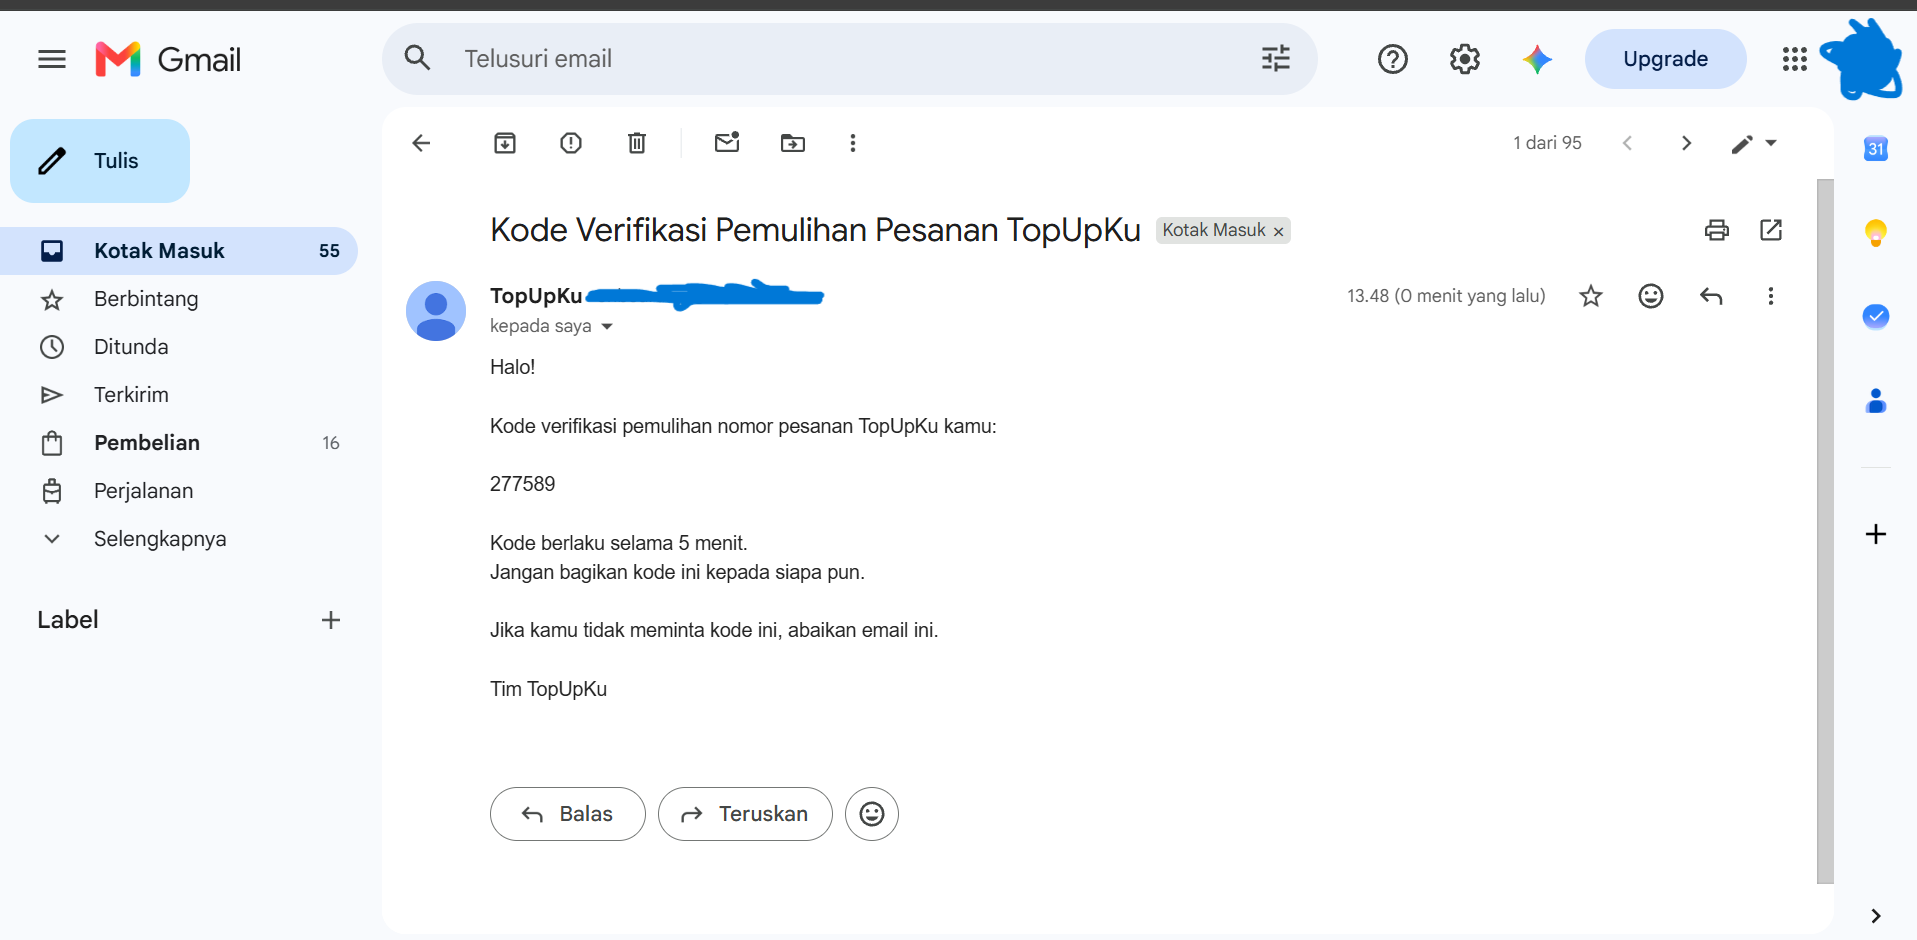
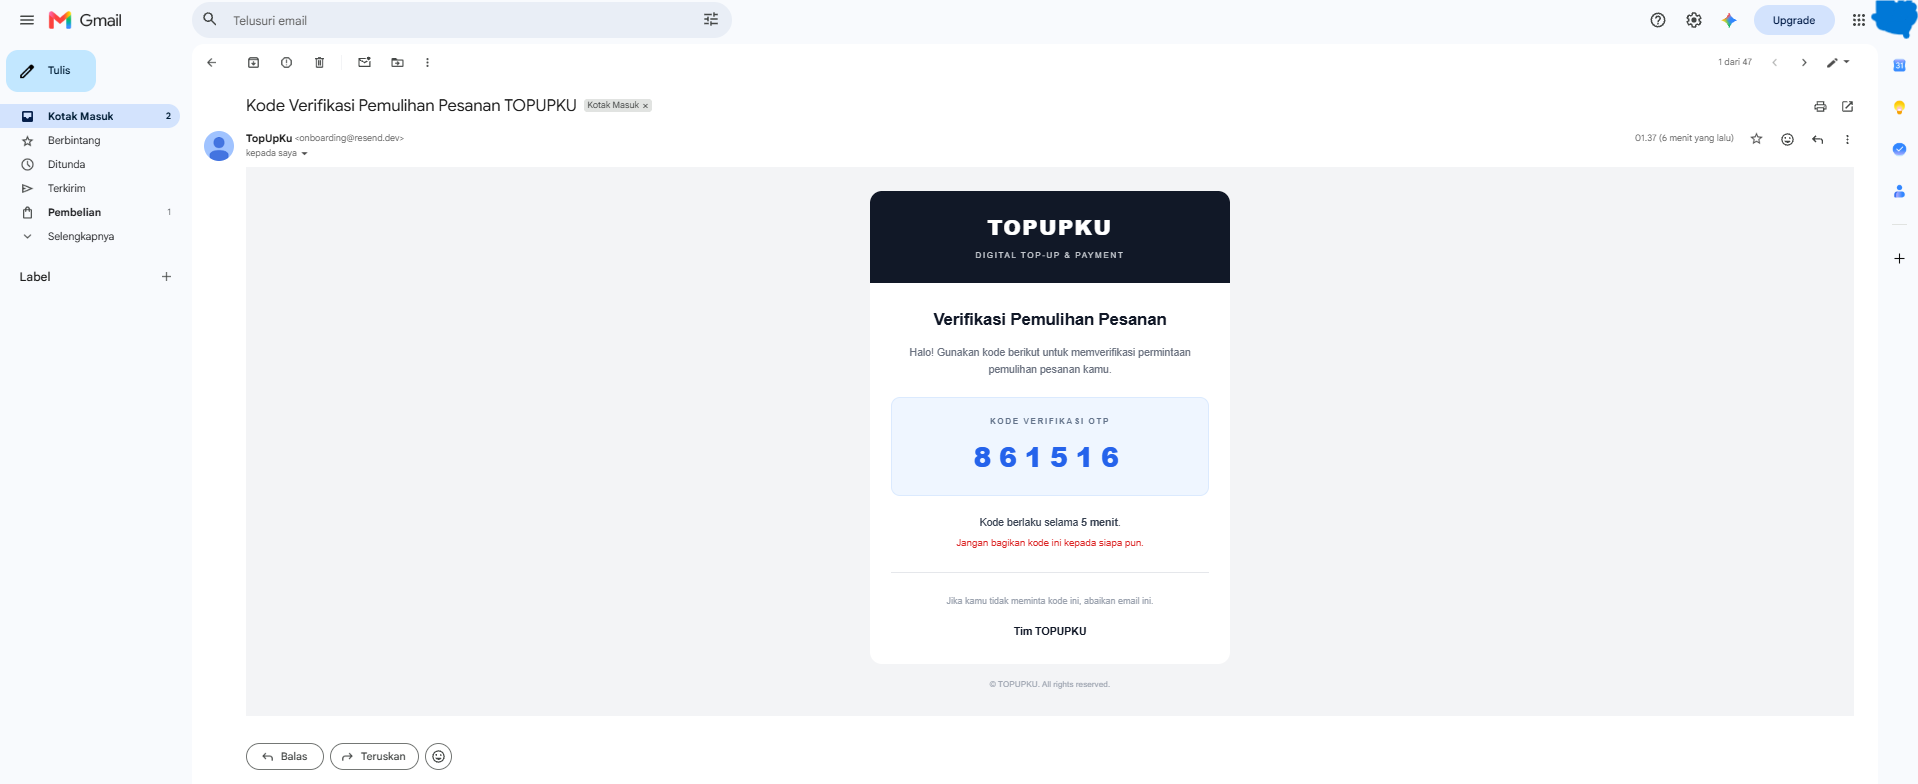
SS

diff --git a/app/orders/page.tsx b/app/orders/page.tsx
@@ -659,7 +659,7 @@ async function handleVerifyOTP() {
           ← Kembali ke Beranda
         </Link>
       </div>
-
+<a></a>
       {/* POPUP LUPA NOMOR PESANAN */}
       {showRecovery && (
         <div
